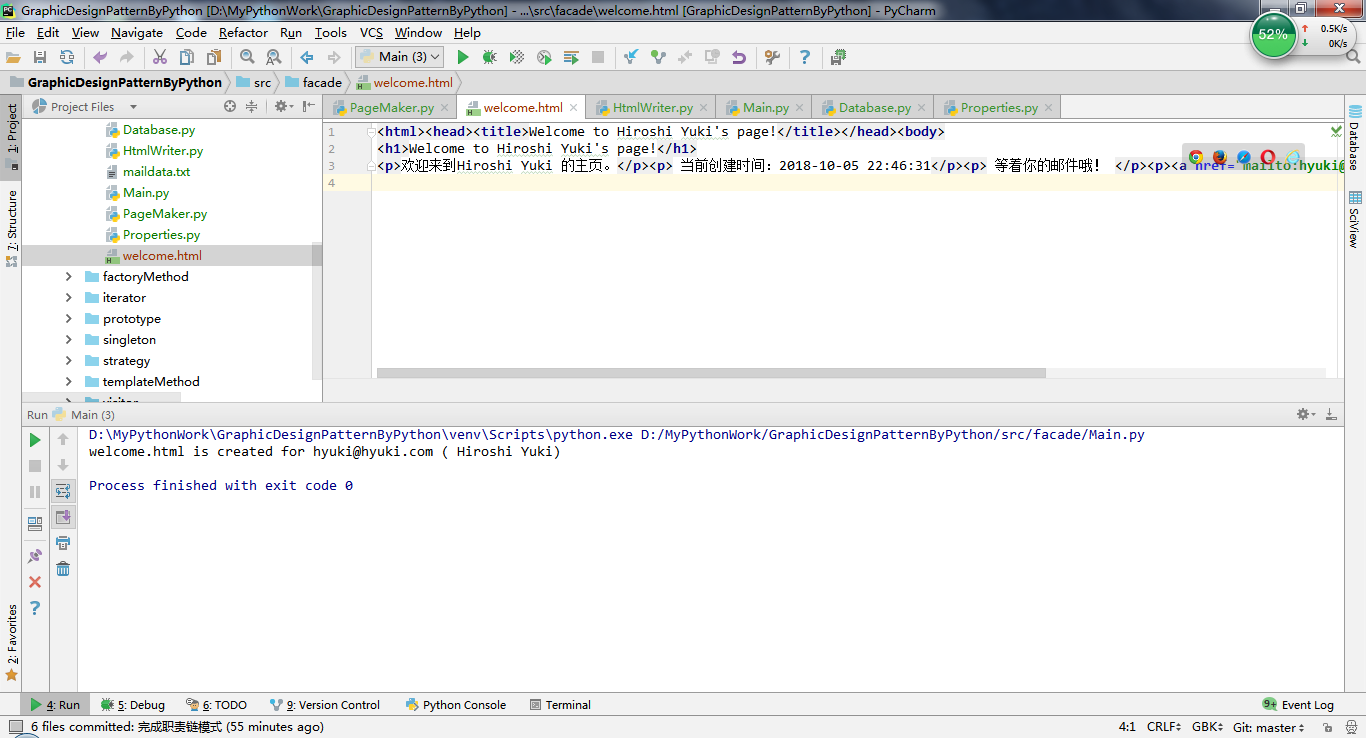
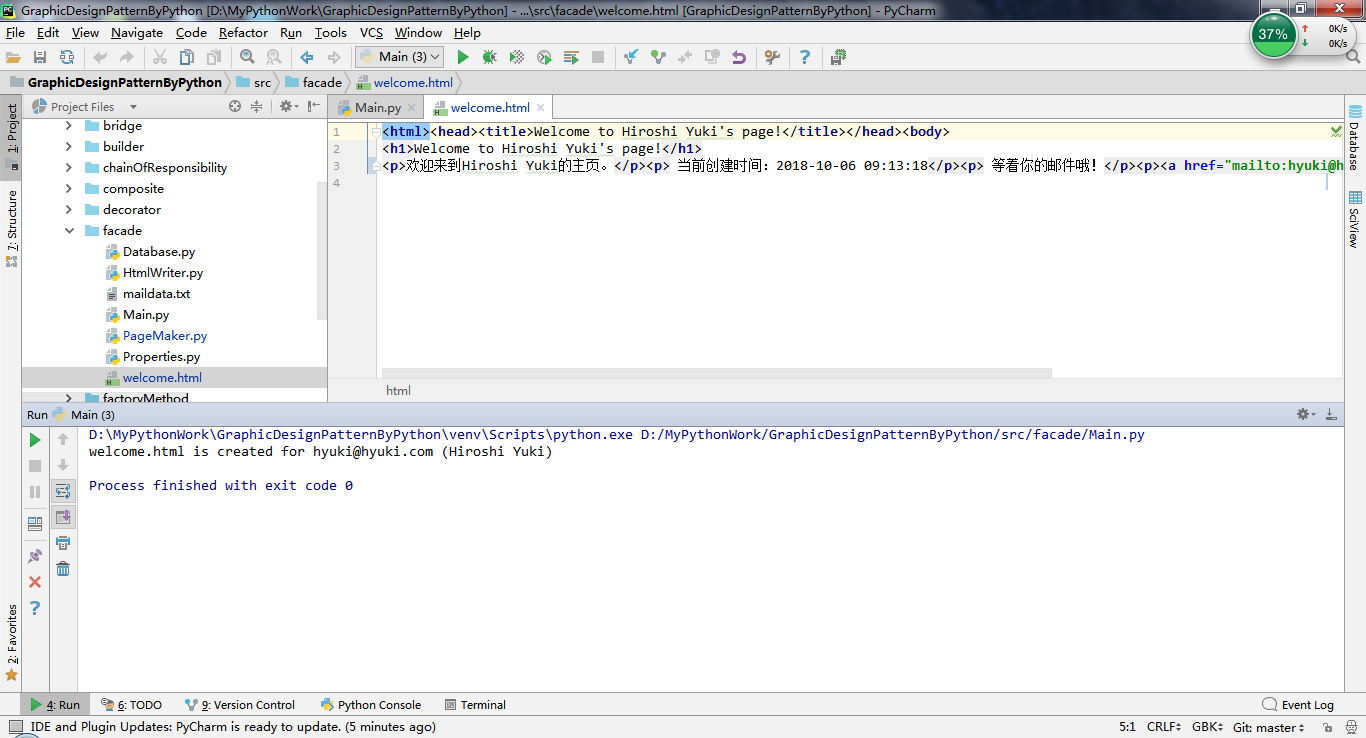
完成中介者模式，采用TK模拟，但是在解耦的时候报错，目前还无法解决

diff --git a/src/mediator/LoginFrame.py b/src/mediator/LoginFrame.py
@@ -1,0 +1,89 @@
+import tkinter
+from mediator.ConcreteColleague import ColleagueButton, ColleagueEntry, ColleagueRadiobutton
+from mediator.Mediator import Mediator
+
+class Main(tkinter.Frame, Mediator):
+
+    def __init__(self, parent):
+        super().__init__(parent)
+        self.parent = parent
+        self.pack()
+
+        self.checkValue = tkinter.StringVar()
+
+        self.createColleagues()
+
+        self.checkGuest.grid(row=0, column=0, padx=2, pady=2,
+                            sticky=tkinter.W)
+        self.checkLogin.grid(row=0, column=1, padx=2, pady=2,
+                            sticky=tkinter.EW)
+        self.usernameLabel.grid(row=1, column=0, padx=2, pady=2,
+                       sticky=tkinter.W)
+        self.textUser.grid(row=1, column=1, padx=2, pady=2,
+                       sticky=tkinter.EW)
+        self.passwordLabel.grid(row=2, column=0, padx=2, pady=2,
+                        sticky=tkinter.W)
+        self.textPassword.grid(row=2, column=1, padx=2, pady=2,
+                        sticky=tkinter.EW)
+        self.buttonOk.grid(row=3, column=0, padx=2, pady=2,
+                         sticky=tkinter.EW)
+        self.buttonCancel.grid(row=3, column=1, padx=2, pady=2,
+                               sticky=tkinter.EW)
+
+        self.checkGuest.focus_set()
+
+        self.checkGuest.bind("<Button-1>", self.colleagueChanged)
+        self.checkLogin.bind("<Button-1>", self.colleagueChanged)
+
+        self.textUser.bind("<Key>", self.colleagueChanged)
+        self.textPassword.bind("<Key>", self.colleagueChanged)
+
+    def createColleagues(self):
+        self.checkGuest = ColleagueRadiobutton("Guest", self.checkValue)
+        self.checkLogin = ColleagueRadiobutton("Login", self.checkValue)
+        self.usernameLabel = tkinter.Label(self, text="Username:", anchor=tkinter.W, underline=0)
+        self.textUser = ColleagueEntry(self, 10)
+        self.passwordLabel = tkinter.Label(self, text="Password:", anchor=tkinter.W, underline=0)
+        self.textPassword = ColleagueEntry(10, '*')
+        self.buttonOk = ColleagueButton("OK")
+        self.buttonCancel = ColleagueButton("Cancel", self.quit)
+
+        self.checkGuest.setMediator(self)
+        self.checkLogin.setMediator(self)
+        self.textUser.setMediator(self)
+        self.textPassword.setMediator(self)
+        self.buttonOk.setMediator(self)
+        self.buttonCancel.setMediator(self)
+
+        self.checkGuest.setColleagueEnable(True)
+        self.checkLogin.setColleagueEnable(False)
+
+    def colleagueChanged(self, event):
+        if self.checkValue == "Guest":
+            self.textUser["state"] = "disable"
+            self.textPassword["state"] = "disable"
+            self.buttonOk["state"] = "normal"
+        else:
+            self.textUser["state"] = "normal"
+            self.userpassChanged()
+
+    def userpassChanged(self):
+        if len(self.textUser.get()) > 0:
+            self.textPassword["state"] = "normal"
+            if len(self.textPassword.get()) > 0:
+                self.buttonOk["state"] = "normal"
+            else:
+                self.buttonOk["state"] = "disable"
+        else:
+            self.textPassword["state"] = "disable"
+            self.buttonOk["state"] = "disable"
+
+    def quit(self, event=None):
+        self.parent.destroy()
+
+application = tkinter.Tk()
+application.title("Mediator Sample")
+window = Main(application)
+application.protocol("WM_DELETE_WINDOW", window.quit)
+application.mainloop()
+

diff --git a/src/mediator/ConcreteColleague.py b/src/mediator/ConcreteColleague.py
@@ -1,0 +1,47 @@
+from mediator.Colleague import Colleague
+import tkinter
+from mediator.Mediator import Mediator
+
+
+class ColleagueButton(Colleague, tkinter.Button):
+    def __init__(self, text, command=None):
+        self.mediator = Mediator()
+        self.button = tkinter.Button(self, text=text, command=command)
+
+    def setMediator(self, mediator):
+        self.mediator = self
+
+    def setColleagueEnable(self, enable):
+        if enable == True:
+            self.button["state"] = "normal"
+        else:
+            self.button["state"] = "disable"
+
+class ColleagueRadiobutton(Colleague, tkinter.Radiobutton):
+    def __init__(self, text, variable):
+        super(ColleagueRadiobutton, self).__init__(self, text=text, variable=variable, value=text, anchor=tkinter.W)
+        self.radiobutton = tkinter.Radiobutton(self, text=text, variable=variable, value=text, anchor=tkinter.W)
+
+    def setMediator(self, mediator):
+        self.mediator = self
+
+    def setColleagueEnable(self, enable):
+        if enable == True:
+            self.radiobutton.select()
+        else:
+            self.radiobutton.deselect()
+
+class ColleagueEntry(Colleague, tkinter.Entry):
+    def __init__(self, width, show=None):
+        self.mediator = Mediator()
+        self.entry = tkinter.Entry(self, width=width, show=show)
+
+    def setMediator(self, mediator):
+        self.mediator = self
+
+    def setColleagueEnable(self, enable):
+        if enable == True:
+            self.entry["state"] = "normal"
+        else:
+            self.entry["state"] = "disable"
+

diff --git a/src/facade/PageMaker.py b/src/facade/PageMaker.py
@@ -10,14 +10,14 @@ class PageMaker():
         username = mailprop.get(mailaddr)
         file = open(filename, 'w', encoding='gbk')
         writer = HtmlWriter(file)
-        writer.title("Welcome to " + username + "'s page!")
-        writer.paragraph("欢迎来到" + username + " 的主页。")
+        writer.title("Welcome to {0}'s page!".format(username))
+        writer.paragraph("欢迎来到{0}的主页。".format(username))
 
         now = int(time.time())
         timeStruct = time.localtime(now)
         strTime = time.strftime("%Y-%m-%d %H:%M:%S", timeStruct)
-        writer.paragraph(" 当前创建时间：" + strTime)
-        writer.paragraph(" 等着你的邮件哦！ ")
+        writer.paragraph(" 当前创建时间：{0}".format(strTime))
+        writer.paragraph(" 等着你的邮件哦！")
         writer.mailto(mailaddr, username)
         writer.close()
-        print(filename + " is created for " + mailaddr + " ( " + username + ")")
+        print("{0} is created for {1} ({2})".format(filename, mailaddr, username))

diff --git a/src/mediator/Mediator.py b/src/mediator/Mediator.py
@@ -1,0 +1,11 @@
+from abc import ABCMeta, abstractstaticmethod
+
+class Mediator(metaclass=ABCMeta):
+    @abstractstaticmethod
+    def createColleagues(self):
+        pass
+
+    @abstractstaticmethod
+    def colleagueChanged(self, event=None):
+        pass
+    

diff --git a/src/mediator/Colleague.py b/src/mediator/Colleague.py
@@ -1,0 +1,10 @@
+from abc import ABCMeta, abstractstaticmethod
+
+class Colleague(metaclass=ABCMeta):
+    @abstractstaticmethod
+    def setMediator(self, mediator):
+        pass
+
+    @abstractstaticmethod
+    def setColleagueEnable(self, enable):
+        pass
